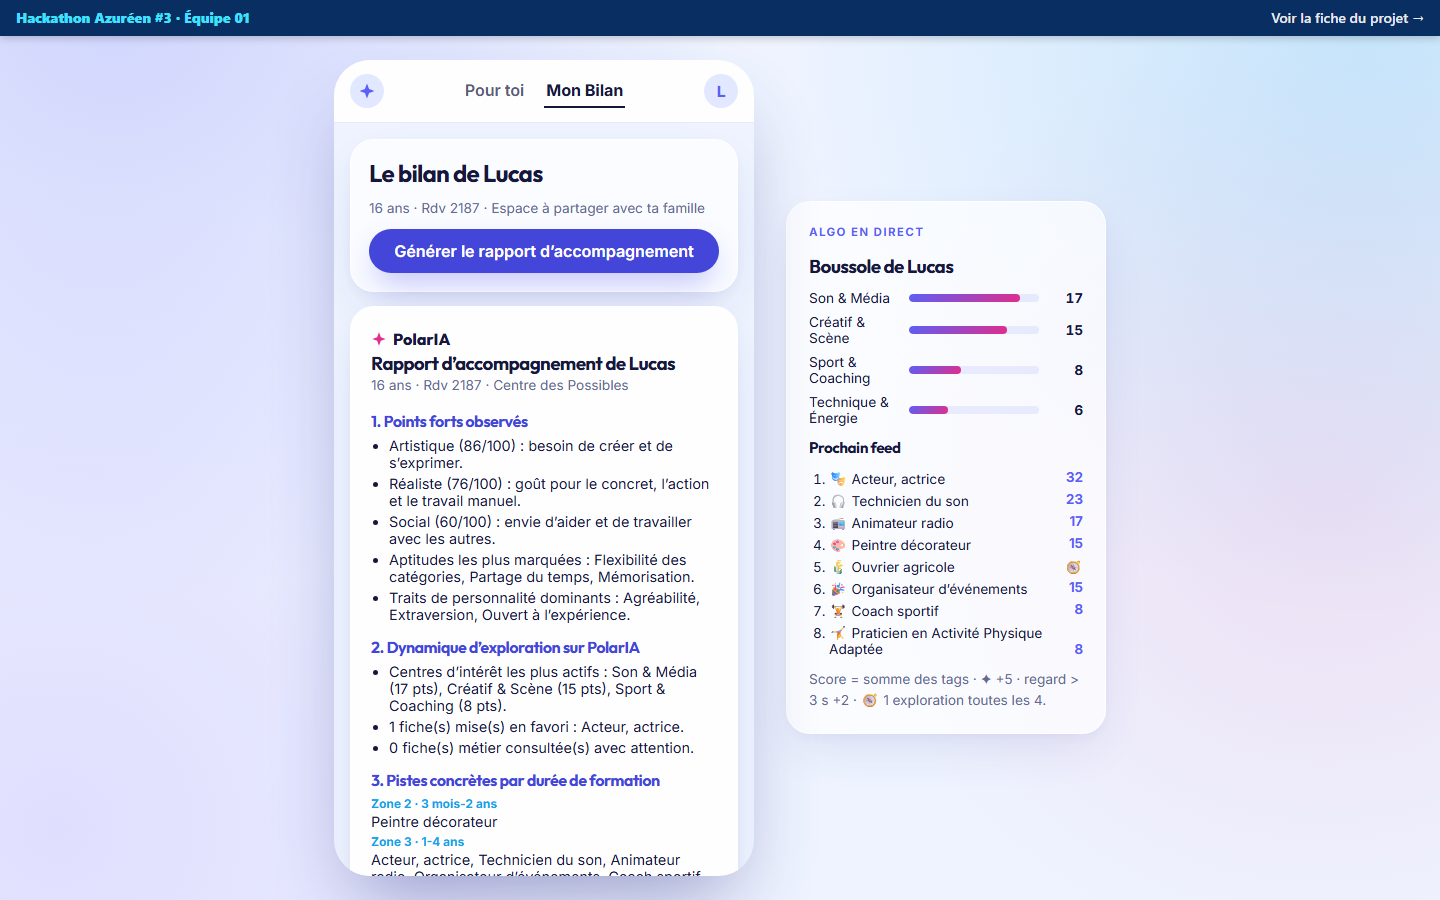
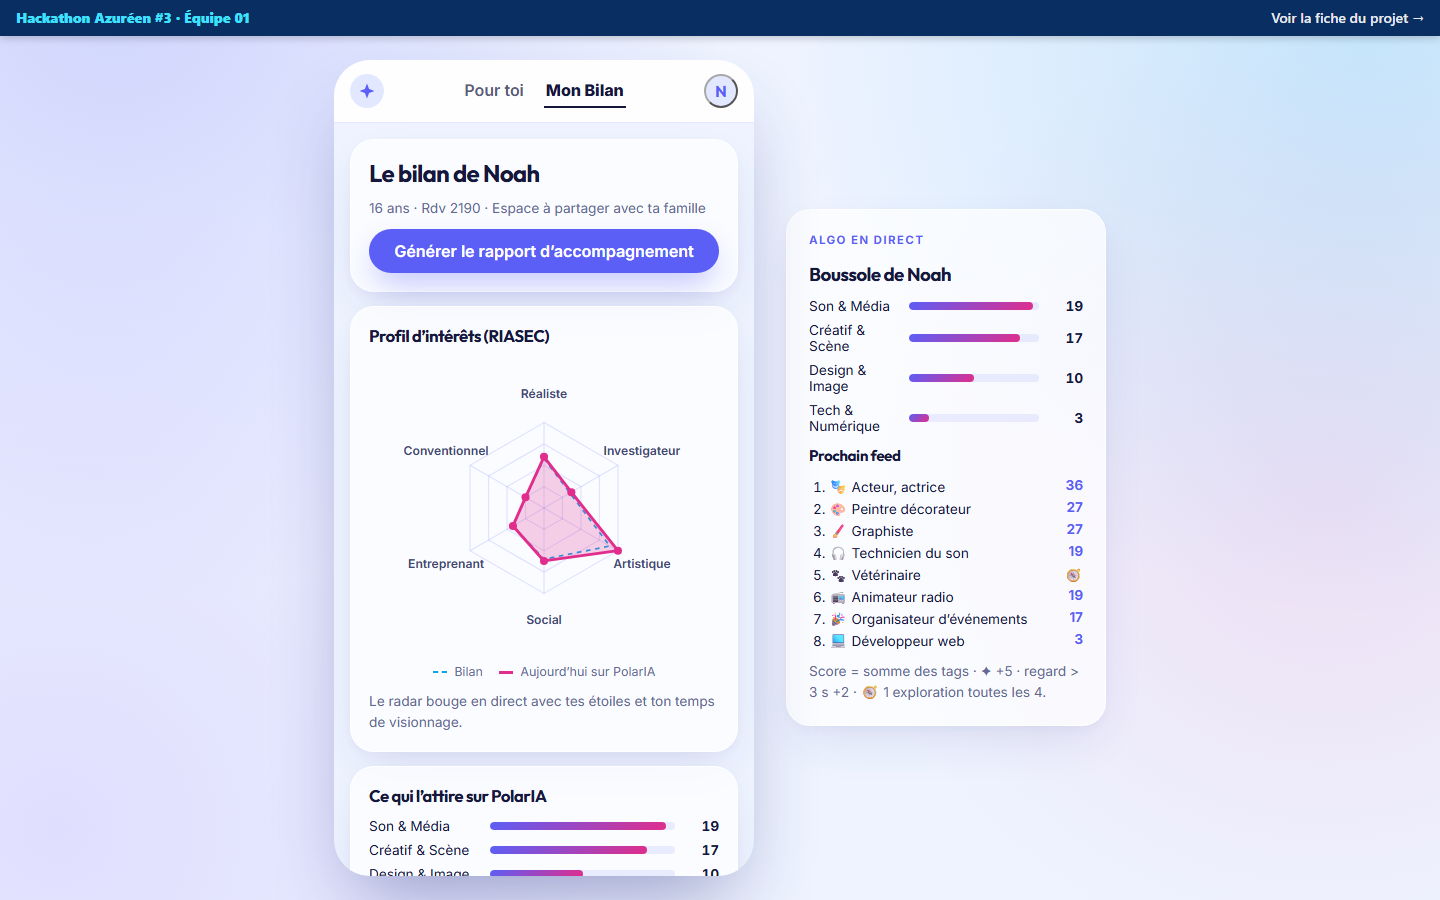
docs: document v2 features, demo accounts and refresh screenshots

diff --git a/docs/ARCHITECTURE.md b/docs/ARCHITECTURE.md
@@ -39,13 +39,20 @@ Les URL utilisent un `#` (`/#/app`) car GitHub Pages ne sait pas renvoyer `index
 | --- | --- | --- |
 | `src/domain/types.ts` | Types du domaine | `YouthProfile`, `ReelVideo`, `RiasecKey`, `JobZone`, `ZONE_LABELS`, bornes des scores |
 | `src/domain/validation.ts` | Revalide tout ce qui sort du localStorage | `sanitizeProfile`, `sanitizeProfiles` |
-| `src/data/tags.ts` | Catalogue fermé des 12 tags et leur lien RIASEC | `TAG_RIASEC`, `ALL_TAGS`, `isKnownTag`, `riasecOfTag` |
-| `src/data/profiles.ts` | 3 profils fictifs (Lucas, Emma, Yanis) | `SEED_PROFILES`, `DEFAULT_PROFILE_ID` |
-| `src/data/videos.ts` | 15 « fake vidéos » de métiers | `VIDEOS`, `getVideoById` |
+| `src/data/tags.ts` | Catalogue fermé des 17 tags et leur lien RIASEC | `TAG_RIASEC`, `ALL_TAGS`, `isKnownTag`, `riasecOfTag` |
+| `src/data/profiles.ts` | 5 profils fictifs (Lucas, Inès, Noah, Chloé, Yanis), avec étoiles et documents de départ | `SEED_PROFILES`, `DEFAULT_PROFILE_ID` |
+| `src/data/accounts.ts` | Comptes de démo publics (5 jeunes + Dr. Martin) | `SEED_ACCOUNTS` |
+| `src/data/videos.ts` | 26 « fake vidéos » de métiers et d’écoles | `VIDEOS`, `getVideoById` |
 | `src/engine/recommend.ts` | Classement du feed | `scoreVideo`, `rankVideos`, `buildFeed`, `secondaryRiasec` |
 | `src/engine/signals.ts` | Mises à jour des scores | `toggleStar`, `recordWatch`, `addTag`, `adjustTag`, `removeTag`, `topTags` |
 | `src/engine/generate.ts` | Restitution déterministe | `generateDebrief`, `generateParentReport`, `plainRiasec`, `plainCognitive` |
-| `src/store/useStore.ts` | État global persistant | `useStore`, `useCurrentYouth`, `enableCrossTabSync`, `syncProfilesFromStorage` |
+| `src/engine/riasec.ts` | Radar vivant et estimation sans bilan | `dynamicRiasec`, `estimateRiasec` |
+| `src/engine/match.ts` | Pourcentage de match d’une fiche | `matchPercent`, `matchedTags` |
+| `src/engine/auth.ts` | Connexion et inscription de démo | `authenticate`, `validateRegistration`, `createYouthAccount` |
+| `src/engine/documents.ts` | Import PDF factice (métadonnées seules) | `validatePdf`, `sanitizeFileName`, `formatSize`, `makeDocument` |
+| `src/store/useStore.ts` | État global : comptes, session, profils, documents | `useStore`, `useCurrentYouth`, `useCurrentAccount`, `enableCrossTabSync` |
+| `src/components/AuthModal.tsx` | Connexion, comptes de démo, inscription | `AuthModal` |
+| `src/components/Documents.tsx` | Glisser-déposer PDF, progression, liste | `DocumentsSection` |
 | `src/lib/radar.ts` | Géométrie du radar SVG | `radarPoints`, `toPath` |
 | `src/lib/speech.ts` | Lecture vocale (Web Speech API) | `speak`, `stopSpeaking`, `canSpeak` |
 | `src/lib/banner.ts` | Mesure du bandeau Code4Sud | `trackBannerHeight` |
@@ -53,7 +60,8 @@ Les URL utilisent un `#` (`/#/app`) car GitHub Pages ne sait pas renvoyer `index
 
 ## Flux de données
 
-1. Au démarrage, le store lit `localStorage["polaria-demo-v1"]` et **revalide** chaque champ (`domain/validation.ts`). L'identité et les résultats du bilan viennent toujours de `data/profiles.ts` ; seuls les tags, étoiles et vidéos vues sont repris.
+0. Connexion : `/app`, la fiche détail et `/pro` affichent la fenêtre de connexion tant qu’aucune session n’est ouverte. Les comptes créés via l’inscription vivent en mémoire et ne sont jamais écrits dans le localStorage.
+1. Au démarrage, le store lit `localStorage["polaria-demo-v2"]` et **revalide** chaque champ (`domain/validation.ts`). L'identité et les résultats du bilan viennent toujours de `data/profiles.ts` ; seuls les tags, étoiles et vidéos vues sont repris.
 2. Une action (étoile, regard de plus de 3 s, bouton +/- du pro) appelle une fonction pure de `engine/signals.ts` qui renvoie un nouveau profil. Le store le persiste.
 3. Les vues recalculent le feed (`buildFeed`) et les textes (`generateDebrief`, `generateParentReport`) à partir du profil.
 4. Si `/app` et `/pro` sont ouverts dans deux onglets, l'événement `storage` propage les profils (pas la session) à l'autre onglet.

diff --git a/docs/TESTS.md b/docs/TESTS.md
@@ -17,13 +17,14 @@ La couverture est mesurée sur `src/engine`, `src/domain`, `src/data`, `src/stor
 - `signals.test.ts` : étoile +5/-5, plancher à 0, regard compté une seule fois, ajout de tag à 10, bornes 0 à 100, refus des tags hors catalogue.
 - `generate.test.ts` : longueur du débrief, tutoiement, 2 pistes issues du catalogue, absence de jargon, structure et avertissement du rapport parents, aucun chiffre inventé.
 - `validation.test.ts` : localStorage falsifié (tags injectés, nombres absurdes, champs ajoutés, pollution de prototype).
-- `data.test.ts` : cohérence du catalogue (12 à 15 vidéos, 2 ou 3 tags connus, accroche de 140 caractères maximum) et des profils.
+- `data.test.ts` : cohérence du catalogue (au moins 20 fiches, 2 ou 3 tags connus, accroche de 140 caractères maximum, chaque tag de profil couvert par 2 fiches), des 5 profils et des comptes de démo.
+- `v2-engine.test.ts` : radar vivant borné, estimation RIASEC, pourcentage de match, connexion de démo, validation de l’inscription (noms, âge 16-25, email unique, 2 ou 3 centres d’intérêt), minimisation (le nom de famille n’est pas gardé), validation et nettoyage des PDF.
 - `lib.test.ts`, `banner.test.ts` : géométrie du radar, lecture vocale, mesure du bandeau.
 
 ## Intégration
 
-- `store.test.ts` : connexion, étoile, réorientation pro visible dans le feed, persistance, réhydratation d'un état falsifié ou corrompu, synchro entre onglets sans boucle.
-- `ui.test.tsx` : landing et sélection de profil, toast de l'étoile, débrief, rapport parents, fiche métier, espace Pro (recherche, éditeur de tags sans champ texte).
+- `store.test.ts` : connexion et erreurs, inscription jamais persistée, actions pro refusées sans session pro, import et retrait de PDF, étoile, réorientation pro visible dans le feed, persistance, réhydratation d'un état falsifié ou corrompu, synchro entre onglets sans boucle.
+- `ui.test.tsx` : accroche et métriques, mockup interactif, connexion avec « Remplir », inscription, radar qui bouge en direct, panneau « Pourquoi », import PDF avec progression, landing, toast de l'étoile, débrief, rapport parents, fiche métier, espace Pro (recherche, éditeur de tags sans champ texte).
 
 ## Garde-fous (`tests/security/guards.test.ts`)
 
@@ -33,7 +34,7 @@ Ils échouent si quelqu'un réintroduit un risque : bandeau Code4Sud absent, `pr
 
 `tests/e2e/journeys.spec.ts` tourne sur deux projets Playwright : **mobile** (390 x 844, tactile) et **desktop** (1440 x 900). Il construit l'app puis la sert avec `vite preview`.
 
-Parcours couverts : bandeau et CSP sans violation, absence de défilement horizontal sur chaque écran, localStorage piégé sans exécution de script, étoile, regard de 3 s (horloge simulée), scroll vertical aimanté, swipe vers la fiche, débrief puis rapport parents, espace Pro sans zone de texte, réorientation visible dans le feed, synchro en direct entre deux onglets.
+Parcours couverts : connexion et inscription (le compte apparaît chez le pro puis disparaît au rechargement), radar qui bouge après une étoile et après une action du pro dans un autre onglet, panneau « Pourquoi » sur la fiche, import et refus de fichiers, bandeau et CSP sans violation, absence de défilement horizontal sur chaque écran, localStorage piégé sans exécution de script, étoile, regard de 3 s (horloge simulée), scroll vertical aimanté, swipe vers la fiche, débrief puis rapport parents, espace Pro sans zone de texte, réorientation visible dans le feed, synchro en direct entre deux onglets.
 
 Première exécution en local :
 

diff --git a/README.md b/README.md
@@ -10,9 +10,9 @@ Au Centre des Possibles (Nice Méridia), les 16-25 ans repartent de leur bilan d
 
 | Pour qui | Quoi |
 | --- | --- |
-| **Le jeune** | Un feed vertical façon Reels de fiches métiers. Une étoile ✦, un swipe : l'algorithme apprend ce qui l'attire. Le bouton « Générer mon avenir » lui raconte son bilan en 40 à 60 mots, à l'oral. |
-| **Les parents** | L'onglet « Mon Bilan » : radar RIASEC, centres d'intérêt explorés et rapport d'accompagnement imprimable, avec des pistes rangées par durée d'études. |
-| **Les pros** | Un tableau de bord où le conseiller réoriente le feed avec des tags et des poids. Aucune note libre, aucune donnée médicale. |
+| **Le jeune** | Un feed vertical façon Reels de fiches métiers, formations et écoles. Une étoile ✦, un swipe : l'algorithme apprend ce qui l'attire. Chaque fiche explique « Pourquoi PolarIA te propose ça ? » (pourcentage de match, tags, règles). Le bouton « Générer mon avenir » lui raconte son bilan en 40 à 60 mots, à l'oral. |
+| **Les parents** | L'onglet « Mon Bilan » : radar RIASEC qui évolue en direct, centres d'intérêt explorés et rapport d'accompagnement imprimable, avec des pistes rangées par durée d'études. |
+| **Les pros** | Un tableau de bord où le conseiller réoriente le feed avec des tags et des poids, et rattache le Rapport des Possibles en PDF (import simulé). Aucune note libre, aucune donnée médicale. |
 
 Principe central : **une IA qui traduit, jamais une IA qui invente**. Toute la restitution est générée de façon déterministe, uniquement à partir des données du profil et du catalogue de métiers (voir [docs/ALGORITHME.md](docs/ALGORITHME.md)).
 
@@ -21,6 +21,21 @@ Principe central : **une IA qui traduit, jamais une IA qui invente**. Toute la r
 https://code4sud.github.io/2026-equipe-01/
 
 Toutes les données sont **fictives**. Rien n'est envoyé sur Internet : l'état de la démo reste dans le navigateur (localStorage). Le bouton « Réinitialiser la démo » de l'espace Pro remet tout à zéro.
+
+### Comptes de démo
+
+Ils sont aussi listés dans l'encart « Comptes de démo » de la fenêtre de connexion, avec un bouton « Remplir ».
+
+| Profil | Identifiant | Mot de passe |
+| --- | --- | --- |
+| Conseiller (Pro) | `dr.martin@polaria.fr` | `pro123` |
+| Lucas, 16 ans, Réaliste / Terrain | `lucas@polaria.fr` | `jeune123` |
+| Inès, 17 ans, Entreprenant / Social | `ines@polaria.fr` | `jeune123` |
+| Noah, 16 ans, Artistique / Créatif | `noah@polaria.fr` | `jeune123` |
+| Chloé, 18 ans, Investigateur / Logique | `chloe@polaria.fr` | `jeune123` |
+| Yanis, 17 ans, Social / Soin | `yanis@polaria.fr` | `jeune123` |
+
+L'onglet « Créer un compte (Jeune) » crée un profil gardé **en mémoire uniquement** : il apparaît tout de suite chez le conseiller et disparaît au rechargement. Ce sont des identifiants de démonstration publics, pas une authentification réelle.
 
 ## Lancer le projet
 

diff --git a/docs/ALGORITHME.md b/docs/ALGORITHME.md
@@ -33,7 +33,15 @@ Dans l'app, l'ordre est figé tant que le jeune est sur le feed (la carte ne « 
 
 Un tag hors catalogue ou une valeur non numérique est **refusé** (exception attrapée par le store, l'action est ignorée).
 
-## 4. Moteur « zéro hallucination »
+## 4. Radar RIASEC vivant et pourcentage de match
+
+**Radar vivant** (`engine/riasec.ts`, `dynamicRiasec`) : on part des scores du bilan, puis chaque tag actif ajoute des points à ses dimensions RIASEC (dimension principale : 1 point pour 4 points de tag ; dimension secondaire : moitié moins). Le décalage est **plafonné à 15 points** par dimension pour ne jamais trahir le bilan. Le radar affiche les deux : pointillés pour le bilan, trait rose pour « aujourd’hui ». Il s’anime à chaque étoile, regard de plus de 3 s ou action du conseiller, y compris depuis un autre onglet.
+
+**Comptes créés sans bilan** (`estimateRiasec`) : base 35 partout, +20 sur la dimension principale et +10 sur la secondaire de chaque centre d’intérêt choisi, plafond 85. Ce profil est toujours présenté comme une **estimation** (radar, bilan et rapport parents le disent explicitement).
+
+**Pourcentage de match** (`engine/match.ts`) : score de la fiche divisé par le meilleur score possible pour une fiche ayant autant de tags (somme des N meilleurs tags du jeune). 100 % signifie que la fiche porte exactement ses tags les plus forts.
+
+## 5. Moteur « zéro hallucination »
 
 Aucun modèle de langage n'est appelé : la démo fonctionne hors-ligne et sans clé. Chaque phrase est un **gabarit fixe** dont les trous sont remplis uniquement avec :
 
@@ -68,6 +76,6 @@ Il s'imprime proprement (`window.print()` avec une feuille de style dédiée) ou
 
 `tests/unit/generate.test.ts` contrôle notamment que le débrief fait entre 40 et 60 mots pour chaque profil, qu'il cite exactement 2 métiers **présents dans le catalogue**, qu'il ne contient aucun terme psychométrique brut, et que chaque nombre du rapport parents est un score réel du profil.
 
-## 5. Brancher un LLM plus tard
+## 6. Brancher un LLM plus tard
 
 Si l'équipe ajoute un modèle de langage, il devra passer par un **backend** (jamais de clé dans le front, le dépôt est public), avec `temperature` à 0, une entrée JSON limitée au profil et au catalogue, et une sortie JSON structurée. Les gabarits actuels restent le repli hors-ligne, et les tests « zéro hallucination » doivent s'appliquer aussi à la sortie du modèle.

diff --git a/SECURITY.md b/SECURITY.md
@@ -14,6 +14,8 @@ PolarIA est un site statique publié sur GitHub Pages, sans serveur, sans compte
 | Injection de script (XSS) | Rendu React uniquement en texte. `dangerouslySetInnerHTML`, `innerHTML` et `eval` interdits par ESLint et par test. Content Security Policy stricte sur les scripts (pas d'`unsafe-inline` ni d'`unsafe-eval`). |
 | Données falsifiées dans le localStorage | Tout ce qui est relu est revalidé contre des catalogues fermés (`src/domain/validation.ts`) : tags inconnus ignorés, scores bornés, identité jamais reprise du stockage, pollution de prototype neutralisée. Testé en unitaire et en E2E. |
 | Saisie de données sensibles par un pro | Aucune zone de texte libre (voir [docs/RGPD.md](docs/RGPD.md)). |
+| Authentification de démo | Les comptes et mots de passe sont **factices et publics** (affichés à l’écran pour le jury). La vérification se fait dans le navigateur : n’importe qui peut ouvrir l’espace Pro, ce qui est acceptable uniquement parce que les données sont fictives. Les actions pro sont tout de même refusées par le store sans session pro, et une session relue du stockage n’est acceptée que pour un compte de démo existant avec le bon rôle. Un vrai produit exige un serveur, des mots de passe hachés (Argon2 ou bcrypt) et une limitation des tentatives. |
+| Fichier importé malveillant | Le PDF n’est jamais ouvert ni lu : seules ses métadonnées sont gardées. Extension et type MIME vérifiés, 15 Mo maximum, nom de fichier nettoyé (pas de chemin ni de balise). |
 | Dépendance vulnérable | `npm audit` en CI (échec au niveau « high »), revue des dépendances sur les pull requests, mises à jour Dependabot hebdomadaires. |
 | Script tiers | Seul le bandeau obligatoire `orientation.code4sud.fr` est autorisé par la CSP, en plus de notre propre bundle. Il ne peut pas avoir de hash SRI (script fourni et modifiable par l'organisateur) : risque accepté, limité par `connect-src 'self'` et des données fictives. Les polices sont auto-hébergées. |
 

diff --git a/docs/RGPD.md b/docs/RGPD.md
@@ -15,9 +15,19 @@ Les psychologues et conseillers ne saisissent **jamais** de notes ou de comptes 
 - les poids se règlent avec des boutons + et -, bornés entre 0 et 100 ;
 - le seul champ texte de l'espace Pro est la recherche par prénom : elle filtre l'affichage et n'est jamais enregistrée.
 
+Les deux seuls champs de l’espace Pro sont la recherche (non enregistrée) et l’import PDF.
+
 Contrôles automatiques : la règle ESLint `no-restricted-syntax` interdit `<textarea>`, le test `tests/security/guards.test.ts` refuse `textarea`, `contentEditable` et tout champ de type notes dans les types, et les tests d'intégration et E2E vérifient qu'aucune zone de texte n'existe dans le panneau Pro.
 
 Le badge « Mode RGPD actif » est affiché en permanence dans l'espace Pro.
+
+## Inscription : minimisation et mémoire seule
+
+Le formulaire « Créer un compte (Jeune) » demande prénom, nom, âge, email et mot de passe pour la démonstration, mais **seuls le prénom et l’initiale du nom** sont conservés, **en mémoire uniquement** : rien n’est écrit dans le localStorage (vérifié par test), tout disparaît au rechargement.
+
+## Import du Rapport des Possibles
+
+L’import PDF de l’espace Pro est **simulé** : le contenu du fichier n’est jamais lu ni envoyé (aucun `FileReader`, vérifié par test). Seuls le nom (nettoyé), la taille et la date sont gardés. Le Rapport des Possibles réel ne doit pas être importé sur cette démo publique.
 
 ## Où vont les données ?
 
